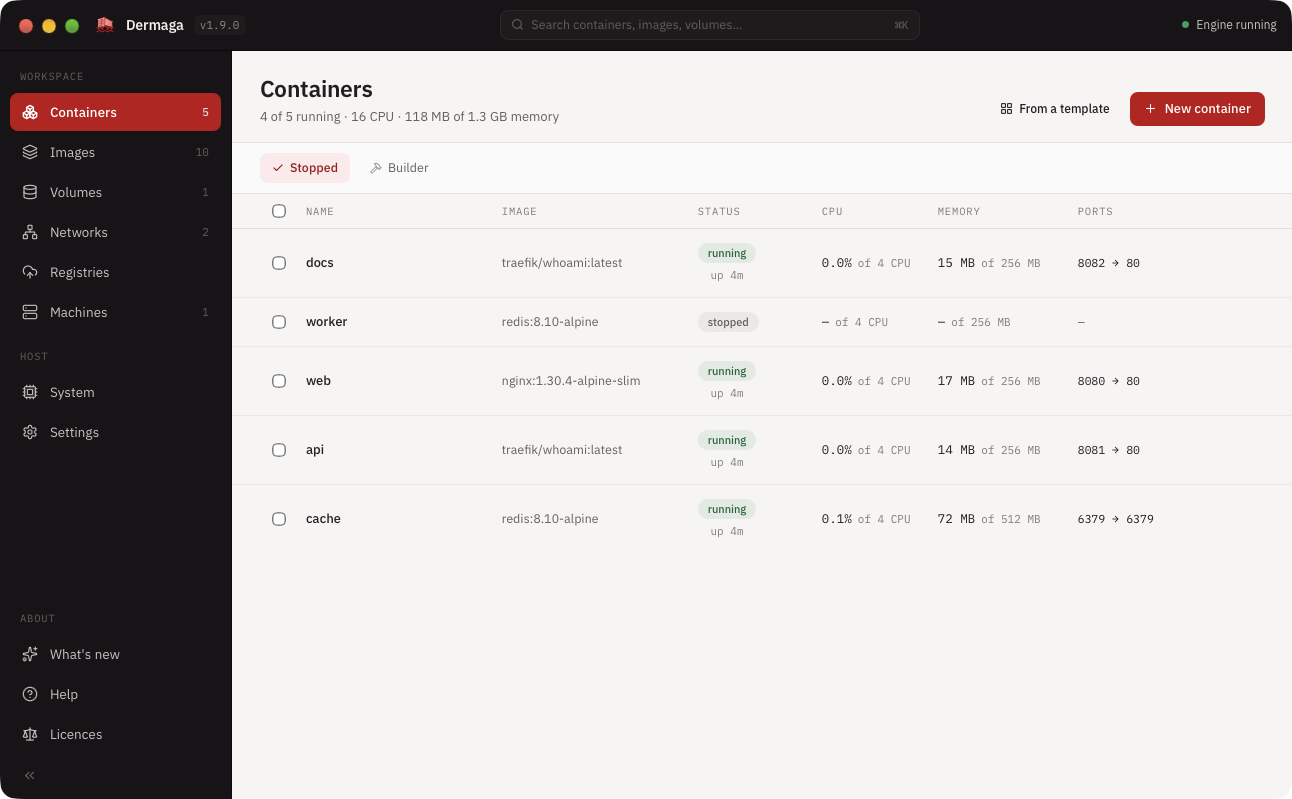
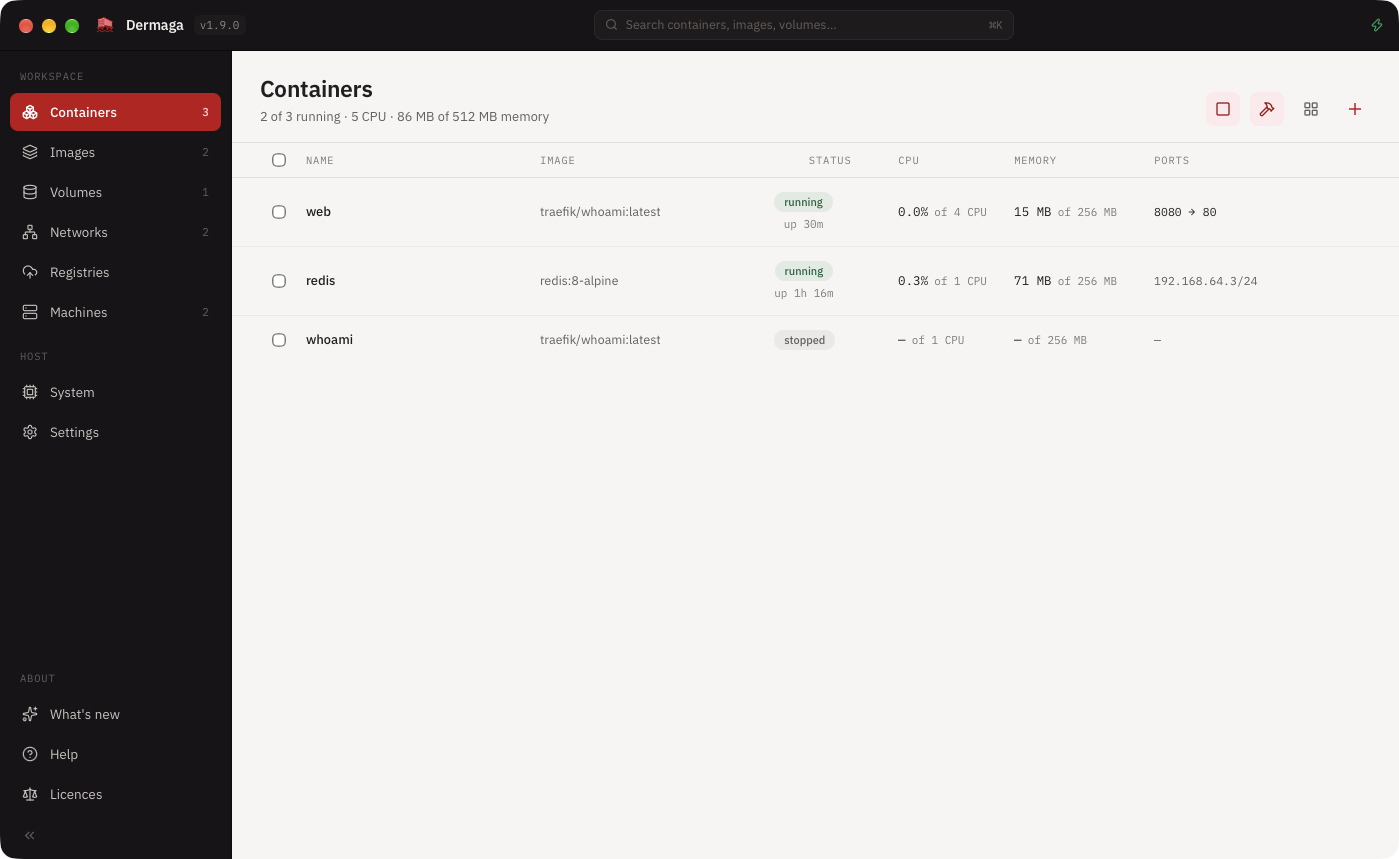
docs: what landed in v1.10.0 (#93)
The entry for the thirteen changes since v1.9.0, written for someone
deciding whether to update.

Three claims in the app were stale and are corrected. Build, Pull and New
machine all said progress appears in the list; the rows moved to the title
bar. Help had nothing about building from a paste, nothing about where work
in progress is shown, and nothing about why the disk figures are so much
larger than the download -- which is the question this release will be asked
most, since the number has no equivalent in Docker or Podman.

The screenshot showed a UI that no longer exists. The two beside it showed
the same, and are removed rather than left to contradict the one that is
current: a README carrying two interfaces is worse than one carrying a
single picture.

NOTE: internal/store/migrate.go is still temporary. Remove it, and its call,
in 1.15.0.

diff --git a/desktop/src/components/HelpView.tsx b/desktop/src/components/HelpView.tsx
@@ -47,6 +47,12 @@ const SECTIONS: Section[] = [
         keywords: 'broken stuck services machine vm not working',
       },
       {
+        question: 'Where work in progress is shown',
+        answer:
+          'A spinning icon appears in the title bar while anything is building, pulling or being created, and goes when there is nothing left. Press it for the list: what each one is, which step it is on, how far through, and a Cancel beside it. A failure stays there until you dismiss it, with its output one press away — so a build that failed while you were on another page is still waiting to be read rather than gone.',
+        keywords: 'progress build pull task spinner cancel background running',
+      },
+      {
         question: 'Everything is live',
         answer:
           'There is no refresh button and no polling. The agent holds a stream open and pushes new state the instant anything changes, including changes you make in a terminal. Logs and pull progress arrive the same way.',
@@ -125,8 +131,8 @@ const SECTIONS: Section[] = [
       {
         question: 'Building an image',
         answer:
-          'Build on the Images page takes a context folder, a tag and the usual build arguments. Progress appears as a row in the list rather than a log window, and the builder container is started for you the first time.',
-        keywords: 'dockerfile build context buildkit',
+          'Build on the Images page works two ways. From a folder takes a context directory, a tag and the usual build arguments. From a Dockerfile takes one you paste in: it is written to a directory of its own, built from there, and that directory is removed when the build ends. A pasted Dockerfile has no folder beside it, so COPY and ADD ask for one — otherwise the tag is all it needs. The builder container is started for you the first time.',
+        keywords: 'dockerfile build context buildkit paste clipboard tag',
       },
       {
         question: 'Moving an image without a registry',
@@ -185,6 +191,12 @@ const SECTIONS: Section[] = [
         answer:
           'System shows the installed version and offers an update when Homebrew has a newer one. The check reads Homebrew’s local index rather than running brew update, so it costs nothing and never changes your Homebrew state on its own. A CLI installed from Apple’s .pkg is left alone.',
         keywords: 'homebrew brew cli apple container update',
+      },
+      {
+        question: 'Why the disk figures are so large',
+        answer:
+          'Apple’s runtime gives every image its own Linux filesystem to run from, rather than sharing layers between images the way Docker does on Linux. Image snapshots measures those unpacked copies, and each one costs roughly a gigabyte however small the image was — so ten images can hold fifty gigabytes between them. It is not the download: the Images page adds up compressed layers, which are far smaller. Snapshots for images nothing is running come back on their own the next time the image is used, so freeing them costs time and nothing else. Volume data does not come back.',
+        keywords: 'disk space system df snapshots storage large reclaim free gigabytes',
       },
       {
         question: 'Where settings are kept',

diff --git a/CHANGELOG.md b/CHANGELOG.md
@@ -7,6 +7,94 @@ GitHub release for each tag carries that generated list with its commit hashes.
 This project follows [semantic versioning](https://semver.org): the version is bumped for what the
 change means to someone using Dermaga, not for how much code moved.
 
+## [v1.10.0] — 2026-08-23
+
+### Changed
+
+- **The interface, rebuilt.** Every page has been redrawn: a warm palette whose dark end stops short
+  of the chrome's black, so in dark mode the sidebar and the page beside it no longer run into each
+  other, and a type scale where each step is named for what it is for rather than how big it is.
+  Actions are icons with their words as the tooltip — a row of four labelled buttons made all four
+  look equally likely, and bare, the one thing a page exists for keeps the colour while the rest step
+  back. Colour carries what the word carried: green starts, amber stops, red forces, orange destroys.
+- **Packages and Vulnerabilities are one tab.** They were two, and they are not two things — every
+  finding is a fact about a package that is already listed. So it is one list of packages, each with
+  a bar showing how many findings of each severity it carries, worst first, with the rest of the
+  inventory alphabetically underneath. Open a package to see the CVEs in it, and open a CVE for a
+  window of its own.
+- **`⌘K` searches from the title bar.** The command palette is gone, and the field at the top of the
+  window replaced it: the results are a page rather than a panel over the one you were reading. It
+  still does things as well as find them — start, stop or restart a container **or a machine**, run a
+  container from an image, attach and detach a network, build from a folder or from a paste.
+- **Work in progress moved to the title bar.** It was a stack of rows above each list, visible only
+  from the page it belonged to — and a build takes minutes, long enough to have gone somewhere else.
+  An icon appears while anything is running; press it for what each one is, which step, how far
+  through, a Cancel, and for a failure its output.
+- **Disk is cleaned one kind at a time.** One button used to free images, volumes and containers
+  together and call it Reclaim. Two of those come back and two do not — an image can be pulled again,
+  and a volume holds the only copy of whatever was written to it. Worse, they compounded: pruning
+  stopped containers freed their volumes, which the volume prune in the next line then deleted. Each
+  figure now carries its own cleanup, and each says what it is about to do in its own words.
+- **Results are kept in a database rather than a folder of JSON.** Scans, templates and unfinished
+  container edits were three files rewritten whole on every change. They now live in
+  `~/.dermaga/dermaga.db`, written one record at a time.
+
+  **Your existing files are moved into it on first launch and then removed**, so nobody is left with
+  both. The move never overwrites a record already there, keeps any file it could not read, and
+  leaves `config.json` alone — preferences are still plain JSON you can edit by hand.
+
+### Added
+
+- **A keyboard that reaches the whole app.** Any list is walked with the arrows, opened with Return
+  and ticked with Space — all of it while the caret is still in the filter field, so a few letters,
+  an arrow and Return is the whole gesture. `⌘1`–`⌘9` switch tabs on a detail page. Inside a dialog,
+  Return in a list of ports or volumes adds another row and puts the caret in it, and `⌘↩` does what
+  the main button does.
+- **Build an image from a Dockerfile you paste.** Build wanted a project on disk; plenty of what
+  people build has no project. Paste one in, give it a tag, and it is written to a directory of its
+  own and built from there — removed when the build ends. A paste containing COPY or ADD asks for a
+  folder, since there is nothing beside it to resolve them against.
+- **Everything Trivy knows about a finding, not five fields of it.** Opening a CVE gives it a window
+  of its own: the description, what upstream intends to do about it, when it was published and last
+  revised, the weaknesses, every vendor's score where they disagree, and all of its references. The
+  CVSS vector is read out in words as well as printed — a flaw reachable over the network with no
+  privileges is a different morning's work from one needing a local account.
+- **What is actually inside an image, and what it costs.** The package list carries sizes, read out
+  of apk's and dpkg's own databases where the scanner does not report them, and each layer says how
+  large it is.
+- **Help you can search.** A field that filters, topics grouped under headings that say what kind of
+  question they answer, troubleshooting first rather than fifth, and the way out at the bottom.
+
+### Fixed
+
+- **Stopping the container services appeared to do nothing.** Dermaga has a page for exactly that,
+  and it never appeared: listing containers is what fails first when the services go down, and the
+  watcher returned there — so the one pass able to report it was the one pass that never got as far
+  as asking.
+- **Creating a volume took minutes.** Making it takes six tenths of a second; what followed was a
+  helper container, measured at over two minutes on a busy Mac, and the request waited for all of it.
+  It now runs behind the caller.
+- **The window opened four pixels too narrow.** It was sized for the images table, back when that was
+  the widest thing in the app — so on a fresh install the licence column fell off the end of an
+  image's package table, and the findings opened underneath went with it.
+- **Clearing up after deleted images no longer waits on the scanner.** Forgetting an image that is
+  gone needs the image list and nothing else, but it sat below the check for whether the scanner was
+  installed.
+- **Removing something that is already gone is no longer an error.** Browsing a volume starts a
+  helper container and tidies it away afterwards, whether or not one ever ran; being told it was not
+  there was written into the log as a failure.
+- **The severity bar is five segments on every row.** Empty segments were painted white, which on a
+  tinted row is a hole rather than a zero.
+- The finding window follows the theme. It renders instead of the app rather than inside it, so the
+  hook that turns dark mode on never ran for it.
+- A dialog opened from the title bar inherited the chrome's near-white type onto a light panel.
+- Dialogs no longer carry a close box: each has a Cancel or Close in its foot, and closes on Escape
+  and on a click outside.
+- Two lines in the file browser padded nothing, leaving the drop hint against the left edge and the
+  bottom of the window at once.
+- The manual button for clearing stale scan results is gone. The sweep that already runs on every
+  change had been doing the work for some time.
+
 ## [v1.9.0] — 2026-08-21
 
 ### Added

diff --git a/README.md b/README.md
@@ -42,28 +42,28 @@ memory, the whole network and mount configuration, and half an hour of readings 
 shell in any running container, backed by a pty. Browse its filesystem and drag files in and out of
 Finder. Mark one to come up when Dermaga does.
 
-**Images** — build from a Dockerfile with live progress, pull, and inspect the layers, history and
-config a container inherits. Save one out as an OCI archive or load one back in. Sign in to a
-registry and push.
+**Images** — build from a project folder, or from a Dockerfile you paste straight in. Pull, and
+inspect the layers, history and config a container inherits. Save one out as an OCI archive or load
+one back in. Sign in to a registry and push. Anything building or pulling shows in the title bar,
+with a cancel beside it.
 
 **Vulnerabilities** — every image is scanned in the background as it appears, so the answer is
 usually waiting by the time you open one. The Packages tab lists what is inside the image with a
 severity bar against each package; opening one shows the CVEs in it, and opening a CVE gives it a
 window of its own. Runs entirely on your Mac.
 
-<p align="center">
-  <img src="assets/screenshot-packages.png" alt="The Packages tab of an image, with one package opened to show the CVEs in it" width="900">
-</p>
 
 **Volumes and networks** — see which containers mount a volume and where it lands inside each, and
 look inside one even when nothing has it mounted. Open a network and see it drawn: every container
 attached, with the address it holds there.
 
-<p align="center">
-  <img src="assets/screenshot-network.png" alt="A network drawn as a graph, with every container attached to it" width="900">
-</p>
 
-**Machines** — create, boot, stop, resize and delete the Linux VMs containers run inside.
+**Machines** — create, boot, stop, resize and delete the Linux VMs containers run inside, each with
+a shell of its own.
+
+**Disk** — System reports what images, containers and volumes actually cost, and each is cleaned up
+on its own. Apple's runtime unpacks every image into a filesystem of its own, so the figure there is
+much larger than the download — and almost all of it is usually reclaimable.
 
 **Live by default** — no refresh button anywhere. Changes made in a terminal appear within two
 seconds; changes made here appear immediately. A container that stops without being asked to says
